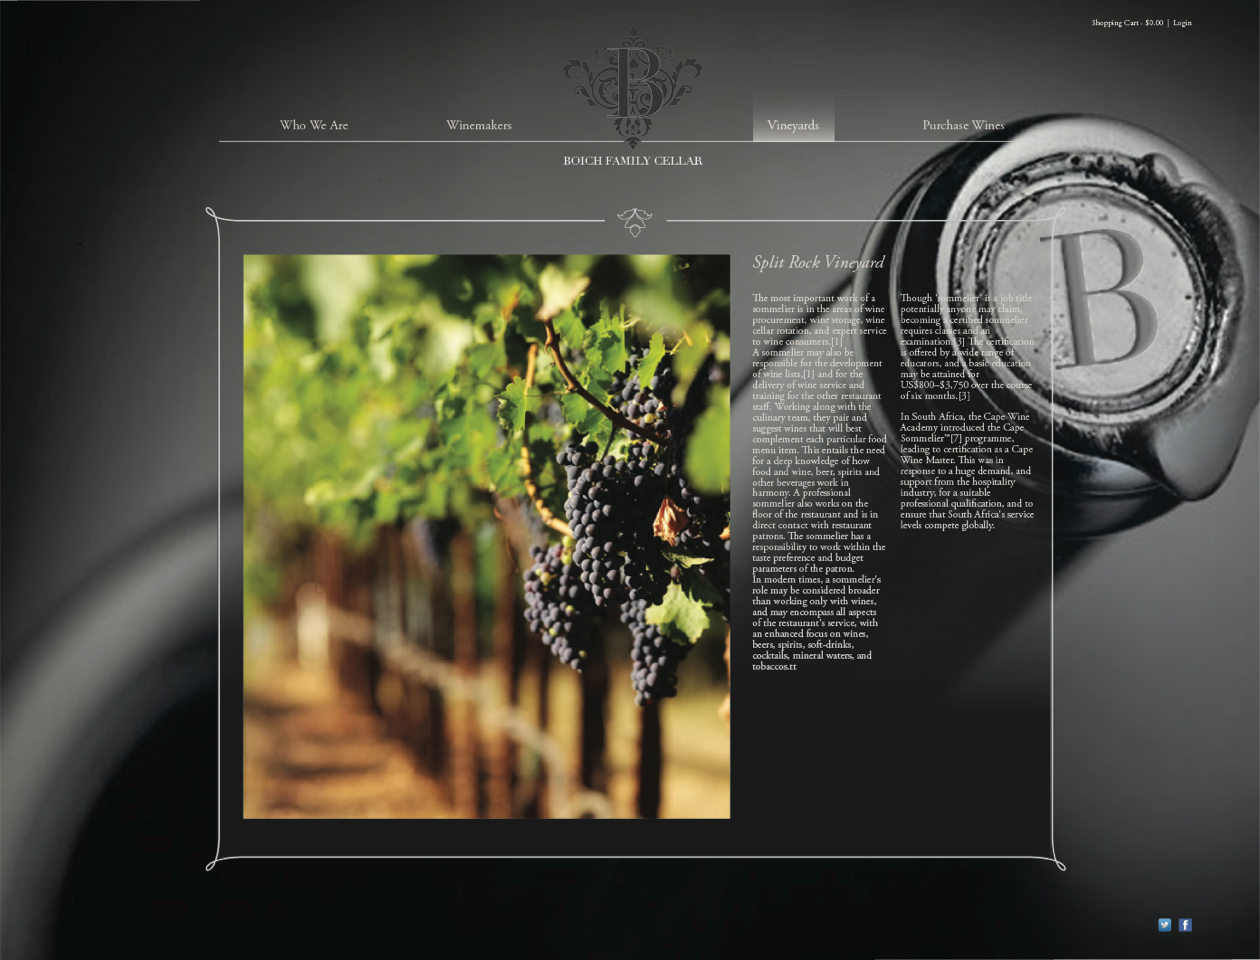
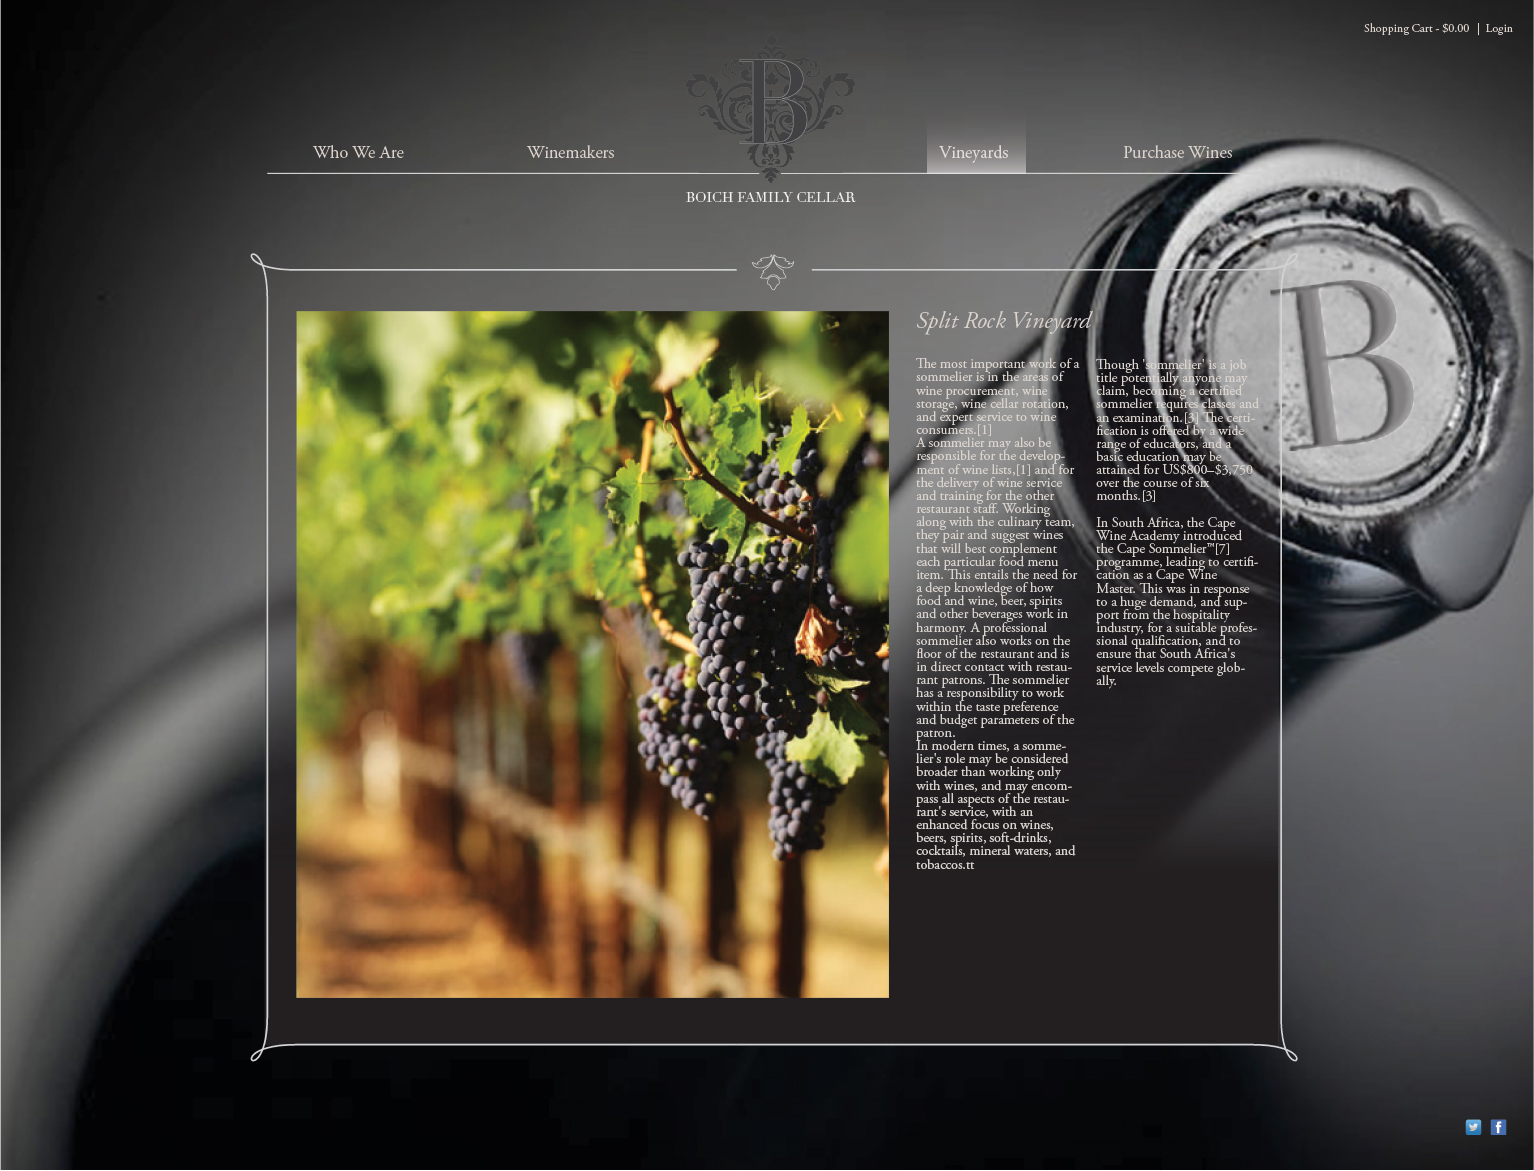
sample

diff --git a/example/index.html b/example/index.html
@@ -10,7 +10,7 @@ html,body {
 }
 body {
 	background: black url(sample.jpg) no-repeat center top;
-	height: 960px;
+	height: 1171px;
 }
 </style>
 
